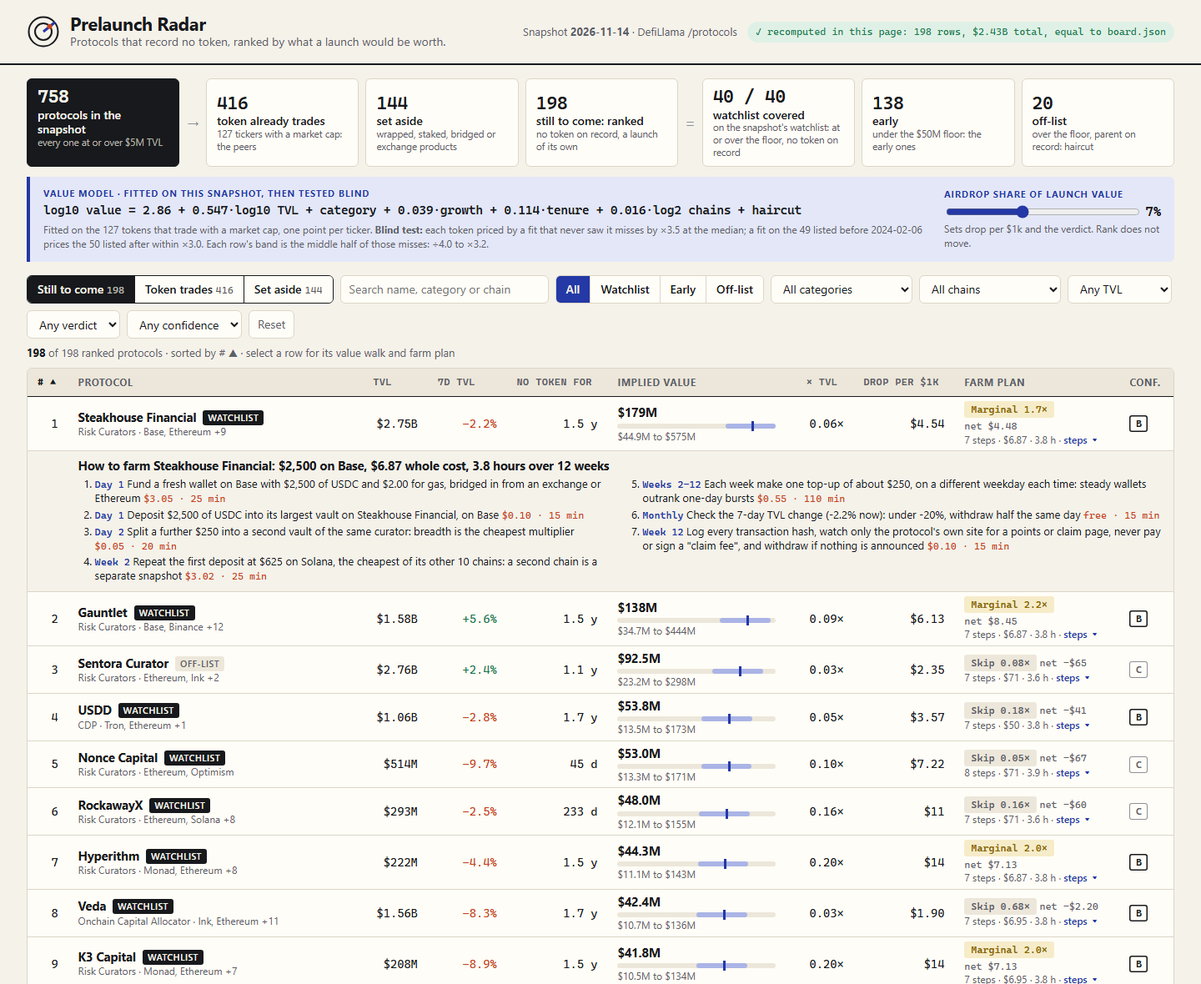
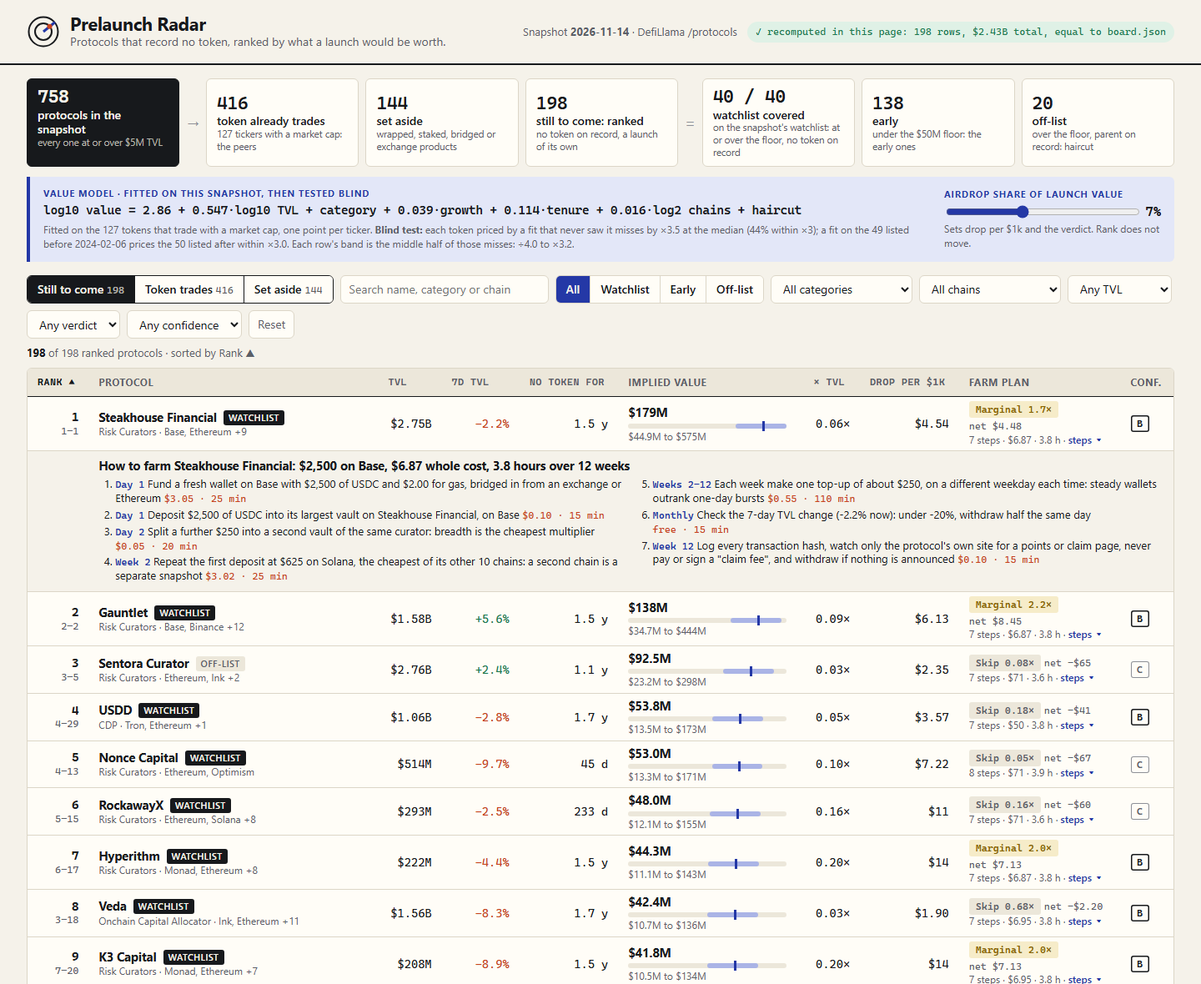
Bootstrap rank ranges, break-even launch value and net per hour; trims

diff --git a/dashboard/radar.js b/dashboard/radar.js
@@ -13,7 +13,7 @@
   var DEFAULTS = { view: 'ranked', cls: '', q: '', cat: '', chain: '', verdict: '', grade: '', min: '', sort: 'rank', dir: 'asc', share: '7', x: '', p: '' };
   var S = {}, shown = [];
 
-  // ---------------------------------------------------------------- small helpers
+  // ----small helpers
   function esc(s) { return String(s).replace(/[&<>"]/g, function (c) { return { '&': '&amp;', '<': '&lt;', '>': '&gt;', '"': '&quot;' }[c]; }); }
   function pct(v) { if (v != null && Math.abs(v) < 0.05) v = 0; return v == null ? '<span class="na">n/a</span>' : '<span class="' + (v >= 0 ? 'pos' : 'neg') + '">' + (v >= 0 ? '+' : '−') + Math.abs(v).toFixed(1) + '%</span>'; }
   function round$(e) { return '$' + [1, 10, 100][e % 3] + ['', 'K', 'M', 'B'][Math.floor(e / 3)]; }
@@ -28,7 +28,7 @@
     return { perK: r.perK * k, drop: pl.drop * k, low: pl.low * k, net: pl.drop * k - pl.cost, edge: edge, verdict: M.verdictOf(edge, pl.lowEdge * k) };
   }
 
-  // ---------------------------------------------------------------- the link is the state
+  // ----the link is the state
   function readHash() {
     S = {}; Object.keys(DEFAULTS).forEach(function (k) { S[k] = DEFAULTS[k]; });
     location.hash.replace(/^#/, '').split('&').forEach(function (kv) {
@@ -42,39 +42,37 @@
   }
   function set(patch) { Object.keys(patch).forEach(function (k) { S[k] = patch[k]; }); writeHash(); render(); }
 
-  // ---------------------------------------------------------------- columns: one definition sorts and draws
+  // ----columns: one definition sorts and draws
   var lo = Math.min.apply(null, rows.map(function (r) { return r.lo; })), hi = Math.max.apply(null, rows.map(function (r) { return r.hi; }));
   function scale(v) { return 100 * Math.log(v / lo) / Math.log(hi / lo); }
   var COLS = {
     ranked: [
-      { k: 'rank', t: '#', num: 1, v: function (r) { return r.rank; }, h: function (r) { return r.rank; } },
+      { k: 'rank', t: 'Rank', num: 1, tip: 'Under each rank: where it lands in 90% of 200 bootstrap refits (rankRanges).',v: function (r) { return r.rank; }, h: function (r) { return '<b>' + r.rank + '</b><small>' + r.rankLo + '–' + r.rankHi + '</small>'; } },
       { k: 'name', t: 'Protocol', v: function (r) { return r.name.toLowerCase(); }, h: function (r) { return '<b>' + esc(r.name) + '</b><span class="tag ' + r.cls + '">' + CLASS[r.cls] + '</span><small>' + esc(r.category) + ' · ' + chainsShort(r.chains, 2) + '</small>'; } },
       { k: 'tvl', t: 'TVL', num: 1, v: function (r) { return r.tvl; }, h: function (r) { return usd(r.tvl); } },
       { k: 'change7d', t: '7d TVL', num: 1, v: function (r) { return r.change7d; }, h: function (r) { return pct(r.change7d); } },
       { k: 'days', t: 'No token for', num: 1, v: function (r) { return r.days; }, h: function (r) { return tenure(r.days); } },
-      { k: 'value', t: 'Implied value', tip: 'The fitted model at this protocol\'s figures. The bar is the band the blind test earned, log scale.',v: function (r) { return r.value; }, h: function (r) { return '<b>' + usd(r.value) + '</b><span class="band"><i style="left:' + scale(r.lo).toFixed(1) + '%;width:' + (scale(r.hi) - scale(r.lo)).toFixed(1) + '%"></i><u style="left:' + scale(r.value).toFixed(1) + '%"></u></span><small>' + usd(r.lo) + ' to ' + usd(r.hi) + '</small>'; } },
+      { k: 'value', t: 'Implied value', v: function (r) { return r.value; }, h: function (r) { return '<b>' + usd(r.value) + '</b><span class="band"><i style="left:' + scale(r.lo).toFixed(1) + '%;width:' + (scale(r.hi) - scale(r.lo)).toFixed(1) + '%"></i><u style="left:' + scale(r.value).toFixed(1) + '%"></u></span><small>' + usd(r.lo) + ' to ' + usd(r.hi) + '</small>'; } },
       { k: 'multiple', t: '× TVL', num: 1, v: function (r) { return r.multiple; }, h: function (r) { return times(r.multiple); } },
-      { k: 'perK', t: 'Drop per $1k', num: 1, tip: 'Implied value × the airdrop share, split pro rata over TVL, for $1,000 deposited.', v: function (r) { return r.perK; }, h: function (r) { return usd(farm(r).perK); } },
+      { k: 'perK', t: 'Drop per $1k', num: 1, v: function (r) { return r.perK; }, h: function (r) { return usd(farm(r).perK); } },
       { k: 'edge', t: 'Farm plan', tip: 'Modelled drop ÷ the plan\'s whole cost. Farm: 3× or more and still covered at the band\'s low end. Marginal: covered. Skip: not.', v: function (r) { return r.plan.edge; }, h: function (r) { var f = farm(r); return '<span class="verdict ' + f.verdict + '">' + f.verdict + ' ' + times(f.edge) + '</span> <span class="net">net ' + usd(f.net) + '</span><small>' + r.plan.steps.length + ' steps · ' + usd(r.plan.cost) + ' · ' + r.plan.hours.toFixed(1) + ' h · <button type="button" class="more" data-x="' + esc(r.slug) + '">steps ▾</button></small>'; } },
       { k: 'conf', t: 'Conf.', v: function (r) { return r.conf; }, h: function (r) { return '<span class="grade ' + r.grade + '">' + r.grade + '</span>'; } }
     ],
     trading: [
       { k: 'name', t: 'Protocol', v: function (p) { return p.name.toLowerCase(); }, h: function (p) { return '<b>' + esc(p.name) + '</b><span class="tag live">' + esc(p.symbol || p.gecko_id) + ' trades</span><small>' + esc(p.category || 'Uncategorised') + ' · ' + chainsShort(p.chains, 2) + '</small>'; } },
       { k: 'tvl', t: 'TVL', num: 1, v: function (p) { return p.tvl_usd; }, h: function (p) { return usd(p.tvl_usd); } },
-      { k: 'change7d', t: '7d TVL', num: 1, v: function (p) { return p.change_7d; }, h: function (p) { return pct(p.change_7d); } },
       { k: 'mcap', t: 'Market cap', num: 1, v: function (p) { return p.mcap_usd; }, h: function (p) { return p.mcap_usd ? usd(p.mcap_usd) : '<span class="na">none on record</span>'; } },
       { k: 'multiple', t: 'Mcap ÷ TVL', num: 1, v: function (p) { return p.mcap_usd ? p.mcap_usd / p.tvl_usd : null; }, h: function (p) { return p.mcap_usd ? times(p.mcap_usd / p.tvl_usd) : ''; } },
-      { k: 'use', t: 'Role in the model (tokenFamilies)', v: function (p) { return fam(p) ? 0 : 1; }, h: function (p) { var f = fam(p); return f ? 'Peer: the ' + esc(f.key) + ' family, ' + f.members + ' product' + (f.members > 1 ? 's' : '') + ', ' + usd(f.tvl) + ' TVL' : '<span class="na">No market cap on record: not fitted</span>'; } }
+      { k: 'use', t: 'Role in the model (tokenFamilies)', v: function (p) { return fam(p) ? 0 : 1; }, h: function (p) { var f = fam(p); return f ? 'Peer ' + esc(f.key) + ': ' + f.members + ' product' + (f.members > 1 ? 's' : '') + ', ' + usd(f.tvl) + ' TVL' : '<span class="na">No market cap: not fitted</span>'; } }
     ],
     aside: [
       { k: 'name', t: 'Protocol', v: function (a) { return a.p.name.toLowerCase(); }, h: function (a) { return '<b>' + esc(a.p.name) + '</b><small>' + esc(a.p.category || 'Uncategorised') + ' · ' + chainsShort(a.p.chains, 2) + '</small>'; } },
       { k: 'tvl', t: 'TVL', num: 1, v: function (a) { return a.p.tvl_usd; }, h: function (a) { return usd(a.p.tvl_usd); } },
-      { k: 'change7d', t: '7d TVL', num: 1, v: function (a) { return a.p.change_7d; }, h: function (a) { return pct(a.p.change_7d); } },
       { k: 'why', t: 'Why it is set aside (productReason)', v: function (a) { return a.why; }, h: function (a) { return esc(a.why); } }
     ]
   };
 
-  // ---------------------------------------------------------------- filter and sort
+  // ----filter and sort
   function applyFilters() {
     var q = S.q.trim().toLowerCase(), min = Number(S.min) || 0;
     var list = S.view === 'ranked' ? rows : radar[S.view];
@@ -98,7 +96,7 @@
     });
   }
 
-  // ---------------------------------------------------------------- header, funnel, model bar
+  // ----header, funnel, model bar
   function renderFrame() {
     var c = D.board_check, sum = rows.reduce(function (s, r) { return s + r.value; }, 0), ok = c && c.rows === rows.length && c.value_sum_usd === sum && c.top === rows[0].slug;
     $('meta').innerHTML = '<span>Snapshot <b>' + esc(radar.as_of) + '</b> · DefiLlama /protocols</span><span class="chip ' + (ok ? 'ok' : 'bad') + '">' + (ok ? '✓ recomputed in this page: ' + rows.length + ' rows, ' + usd(sum) + ' total, equal to board.json' : 'This page\'s run differs from board.json') + '</span>';
@@ -113,11 +111,11 @@
       cell('ranked', 'offlist', n('offlist'), 'off-list', 'over the floor, parent on record: haircut');
     var f = radar.fit, sign = function (v) { return (v < 0 ? ' − ' : ' + ') + Math.abs(v).toFixed(3); };
     $('modelbar').innerHTML = '<div class="formula"><span class="lbl">Value model · fitted on this snapshot, then tested blind</span><code>log10 value = ' + f.a.toFixed(2) + ' + ' + f.b.toFixed(3) + '·log10 TVL + category' + sign(f.coef.g.post) + '·growth' + sign(f.coef.s.post) + '·tenure' + sign(f.coef.c.post) + '·log2 chains + haircut</code>' +
-      '<small>Fitted on the ' + f.n + ' tokens that trade with a market cap, one point per ticker. <b>Blind test:</b> each token priced by a fit that never saw it misses by ×' + T.miss.toFixed(1) + ' at the median; a fit on the ' + T.split.train + ' listed before ' + T.split.cut + ' prices the ' + T.split.test + ' listed after within ×' + T.split.miss.toFixed(1) + '. Each row\'s band is the middle half of those misses: ÷' + Math.pow(10, -T.q25).toFixed(1) + ' to ×' + Math.pow(10, T.q75).toFixed(1) + '.</small></div>' +
+      '<small>Fitted on the ' + f.n + ' tokens that trade with a market cap, one point per ticker. <b>Blind test:</b> each token priced by a fit that never saw it misses by ×' + T.miss.toFixed(1) + ' at the median (' + Math.round(T.within3 * 100) + '% within ×3); a fit on the ' + T.split.train + ' listed before ' + T.split.cut + ' prices the ' + T.split.test + ' listed after within ×' + T.split.miss.toFixed(1) + '. Each row\'s band is the middle half of those misses: ÷' + Math.pow(10, -T.q25).toFixed(1) + ' to ×' + Math.pow(10, T.q75).toFixed(1) + '.</small></div>' +
       '<label class="share"><span class="lbl">Airdrop share of launch value</span><input type="range" id="share" min="2" max="15" step="1" value="' + esc(S.share) + '"><output>' + esc(S.share) + '%</output><small>Sets drop per $1k and the verdict. Rank does not move.</small></label>';
   }
 
-  // ---------------------------------------------------------------- controls
+  // ----controls
   function options(list, cur, all) {
     return '<option value="">' + all + '</option>' + list.map(function (o) { return '<option value="' + esc(o[0]) + '"' + (o[0] === cur ? ' selected' : '') + '>' + esc(o[1]) + '</option>'; }).join('');
   }
@@ -140,7 +138,7 @@
       '<button type="button" class="reset" data-act="reset">Reset</button><p class="count" id="count" aria-live="polite"></p>';
   }
 
-  // ---------------------------------------------------------------- the board
+  // ----the board
   function renderBoard() {
     var cols = COLS[S.view];
     shown = applyFilters();
@@ -157,10 +155,10 @@
     $('empty').hidden = shown.length > 0;
     var total = (S.view === 'ranked' ? rows : radar[S.view]).length, col = cols.filter(function (c) { return c.k === S.sort; })[0] || cols[0];
     var active = [CLASS[S.cls], S.cat, S.chain, S.verdict && 'verdict ' + S.verdict, S.grade && 'confidence ' + S.grade, S.min && 'TVL ≥ ' + usd(Number(S.min)), S.q && '“' + esc(S.q) + '”'].filter(Boolean);
-    $('count').innerHTML = (active.length ? '<span class="filtered">Filtered: ' + active.map(esc).join(' + ') + '</span> ' : '') + '<b>' + shown.length + '</b> of ' + total + (S.view === 'ranked' ? ' ranked protocols' : S.view === 'trading' ? ' protocols whose token trades' : ' set-aside products') + ' · sorted by ' + col.t + (S.dir === 'asc' ? ' ▲' : ' ▼') + (S.view === 'ranked' ? ' · select a row for its value walk and farm plan' : '');
+    $('count').innerHTML = (active.length ? '<span class="filtered">Filtered: ' + active.map(esc).join(' + ') + '</span> ' : '') + '<b>' + shown.length + '</b> of ' + total + (S.view === 'ranked' ? ' ranked protocols' : S.view === 'trading' ? ' protocols whose token trades' : ' set-aside products') + ' · sorted by ' + col.t + (S.dir === 'asc' ? ' ▲' : ' ▼');
   }
 
-  // ---------------------------------------------------------------- the detail view
+  // ----the detail view
   /** The traded protocols nearest in TVL, same category first: the comparables a reader can check by hand. */
   function nearestComps(r, n) {
     var d = function (p) { return Math.abs(Math.log(p.tvl / r.tvl)); };
@@ -171,7 +169,7 @@
   function drawScatter(r) {
     var W = 560, H = 230, L = 46, B = 26, f = radar.fit, x0 = 6.6, x1 = 10.6, y0 = 4.5, y1 = 10.6, lg = function (v) { return Math.log(v) / Math.LN10; };
     var X = function (v) { return L + (lg(v) - x0) / (x1 - x0) * (W - L - 8); }, Y = function (v) { return H - B - (lg(v) - y0) / (y1 - y0) * (H - B - 8); };
-    var s = '<svg class="scatter" viewBox="0 0 ' + W + ' ' + H + '" role="img" aria-label="Market cap against TVL for the traded peers, with the fitted curve">';
+    var s = '<svg class="scatter" viewBox="0 0 ' + W + ' ' + H + '" role="img" aria-label="Market cap against TVL, traded peers">';
     [5, 6, 7, 8, 9, 10].forEach(function (e) { s += '<line class="grid" x1="' + L + '" x2="' + (W - 8) + '" y1="' + Y(Math.pow(10, e)) + '" y2="' + Y(Math.pow(10, e)) + '"/><text class="ax" x="' + (L - 6) + '" y="' + (Y(Math.pow(10, e)) + 4) + '" text-anchor="end">' + round$(e) + '</text>'; });
     [7, 8, 9, 10].forEach(function (e) { s += '<text class="ax" x="' + X(Math.pow(10, e)) + '" y="' + (H - 8) + '" text-anchor="middle">' + round$(e) + ' TVL</text>'; });
     s += '<text class="ax" x="' + (L + 6) + '" y="16">market cap</text>';
@@ -197,7 +195,7 @@
     ].forEach(function (s) { run *= s[2]; walk += step(s[0], s[1], s[2], run); });
     var comps = nearestComps(r, 5).map(function (p) { return '<tr><td><b>' + esc(p.name) + '</b> <span class="na">' + esc(p.key) + '</span></td><td>' + esc(p.category || '') + '</td><td class="num">' + usd(p.tvl) + '</td><td class="num">' + usd(p.mcap) + '</td><td class="num">' + times(p.mcap / p.tvl) + '</td></tr>'; }).join('');
     var at = shown.indexOf(r);
-    el.innerHTML = '<header><div><p class="eyebrow">Rank ' + r.rank + ' of ' + rows.length + ' · <span class="tag ' + r.cls + '">' + CLASS[r.cls] + '</span> ' + CLASS_NOTE[r.cls] + '</p><h2 id="d-name">' + esc(r.name) + '</h2><p class="sub">' + esc(r.category) + ' on ' + chainsShort(r.chains, 6) + ' · TVL ' + usd(r.tvl) + ' · records no token</p></div>' +
+    el.innerHTML = '<header><div><p class="eyebrow">Rank ' + r.rank + ' of ' + rows.length + ' (' + r.rankLo + ' to ' + r.rankHi + ' in 90% of 200 bootstrap refits)· <span class="tag ' + r.cls + '">' + CLASS[r.cls] + '</span> ' + CLASS_NOTE[r.cls] + '</p><h2 id="d-name">' + esc(r.name) + '</h2><p class="sub">' + esc(r.category) + ' on ' + chainsShort(r.chains, 6) + ' · TVL ' + usd(r.tvl) + ' · records no token</p></div>' +
       '<nav><button type="button" data-step="-1"' + (at > 0 ? '' : ' disabled') + '>← Prev</button><button type="button" data-step="1"' + (at >= 0 && at < shown.length - 1 ? '' : ' disabled') + '>Next →</button><button type="button" class="close" data-act="close">Close ✕</button></nav></header>' +
       '<div class="cols"><section><h3>Implied value</h3><div class="hero"><b>' + usd(r.value) + '</b><span>blind-test band ' + usd(r.lo) + ' to ' + usd(r.hi) + ' · ' + times(r.multiple) + ' TVL · confidence <span class="grade ' + r.grade + '">' + r.grade + '</span> ' + r.conf + '/100</span></div>' +
       '<table class="walk"><thead><tr><th>Step</th><th>From the snapshot</th><th class="num">Factor</th><th></th><th class="num">Running</th></tr></thead><tbody>' + walk + '</tbody></table>' +
@@ -205,7 +203,8 @@
       '<h3>Nearest comparables that trade</h3><table class="comps"><thead><tr><th>Protocol</th><th>Category</th><th class="num">TVL</th><th class="num">Market cap</th><th class="num">Mcap ÷ TVL</th></tr></thead><tbody>' + comps + '</tbody></table></section>' +
       '<section><h3>Farm plan <span class="verdict ' + f.verdict + '">' + f.verdict + ' ' + times(f.edge) + '</span></h3>' +
       '<div class="tiles"><div><b>' + usd(pl.size) + '</b><span>capital, on ' + esc(pl.chain) + '</span></div><div><b>' + usd(pl.cost) + '</b><span>whole cost: ' + usd(pl.gas) + ' gas' + (pl.carry ? ' + ' + usd(pl.carry) + ' idle cash' : ', deposit keeps earning') + '</span></div><div><b>' + pl.hours.toFixed(1) + ' h</b><span>over ' + pl.weeks + ' weeks</span></div><div><b>' + usd(f.drop) + '</b><span>modelled drop at ' + esc(S.share) + '% share; ' + usd(f.low) + ' at the band\'s low end</span></div><div class="' + (f.net >= 0 ? 'gain' : 'loss') + '"><b>' + usd(f.net) + '</b><span>net of cost</span></div></div>' +
-      '<p class="why">' + (f.verdict === 'Farm' ? 'The modelled drop is ' + times(f.edge) + ' the plan\'s cost and still covers it at the band\'s low end: worth the ' + pl.hours.toFixed(1) + ' hours.' : f.verdict === 'Marginal' ? 'The modelled drop covers the cost ' + times(f.edge) + ': farm it only if the launch is likely or you would use it anyway.' : 'The modelled drop does not cover the cost (' + times(f.edge) + '): its TVL dilutes a ' + usd(pl.size) + ' position. Skip unless you already use it.') + '</p>' +
+      '<p class="why">' + (f.verdict === 'Farm' ? 'The modelled drop is ' + times(f.edge) + ' the cost and still covers it at the band\'s low end: worth the ' + pl.hours.toFixed(1) + ' hours.' : f.verdict === 'Marginal' ? 'The modelled drop covers the cost ' + times(f.edge) + ': farm it only if you would use it anyway.' : 'The modelled drop does not cover the cost (' + times(f.edge) + '): its TVL dilutes a ' + usd(pl.size) + ' position. Skip.') + '</p>' +
+      '<p class="be">Break-even: the plan pays for itself if the launch is worth ' + usd(pl.breakEven * M.AIRDROP_SHARE * 100 / Number(S.share)) + ' or more (' + (100 / f.edge).toFixed(0) + '% of the modelled value). Net per hour of your time: ' + usd(f.net / pl.hours) + '.</p>' +
       '<ol class="steps">' + pl.steps.map(function (s) { return '<li><p><b>' + esc(s.when) + '</b> ' + esc(s.what) + '.</p><span class="cost">' + (s.cost > 0 ? usd(s.cost) : 'free') + '</span><span class="time">' + (s.min >= 60 ? (s.min / 60).toFixed(0) + ' h' : s.min + ' min') + '</span><small>' + esc(s.note) + '</small></li>'; }).join('') + '</ol>' +
       '<h3>The same plan at three sizes</h3><table class="comps"><thead><tr><th class="num">Capital</th><th class="num">Whole cost</th><th class="num">Modelled drop</th><th class="num">Net</th><th>Verdict</th></tr></thead><tbody>' +
       [pl.size / 2, pl.size, pl.size * 5].map(function (c) { var q = M.farmPlan(r, c), g = farm(r, q); return '<tr><td class="num">' + (c === pl.size ? 'the plan: ' : '') + usd(c) + '</td><td class="num">' + usd(q.cost) + '</td><td class="num">' + usd(g.drop) + '</td><td class="num">' + usd(g.net) + '</td><td><span class="verdict ' + g.verdict + '">' + g.verdict + ' ' + times(g.edge) + '</span></td></tr>'; }).join('') + '</tbody></table>' +
@@ -213,7 +212,7 @@
     el.querySelector('.close').focus();
   }
 
-  // ---------------------------------------------------------------- wiring
+  // ----wiring
   function render() { renderFrame(); renderControls(); renderBoard(); renderDetail(); }
   document.addEventListener('click', function (e) {
     var t = e.target.closest('[data-x],[data-sort],[data-view],[data-cls],[data-act],[data-step],tr[data-slug]');

diff --git a/dashboard/model.js b/dashboard/model.js
@@ -2,11 +2,11 @@
  * ONE file, run twice: main.ts runs it on the sealed snapshot to write board.json, and the page runs it
  * again in the browser on the same rows (snapshot-data.js). Nothing here names a protocol: every figure
  * comes from the snapshot's ten fields. Reading order: splitUniverse -> tokenFamilies -> fitOn ->
- * backtest -> scoreProtocol -> farmPlan -> buildRadar. */
+ * backtest -> rankRanges -> scoreProtocol -> farmPlan -> buildRadar. */
 (function (root) {
   'use strict';
 
-  // ---------------------------------------------------------------- 1. who still has a token to come
+  // ----1. who still has a token to come
   const PRODUCT_CATEGORIES = ['Bridge', 'Canonical Bridge', 'Liquid Staking', 'Liquid Restaking', 'Restaked BTC', 'CEX'];
   const VERSION_MARK = /\s(V\d+(\.\d+)?|v\d+(\.\d+)?|\d+\.\d+)$/;
   const PRODUCT_WORD = /\b(wrapped|staked|staking)\b/i;
@@ -42,7 +42,7 @@
     return { watch, trading, aside, candidates, kin };
   }
 
-  // ---------------------------------------------------------------- 2. the peers: one point per token
+  // ----2. the peers: one point per token
   const log10 = (x) => Math.log(x) / Math.LN10;
   const tanh = (v) => { const e = Math.exp(2 * v); return (e - 1) / (e + 1); };
   const days = (from, to) => Math.round((Date.parse(to) - Date.parse(from)) / 864e5);
@@ -73,7 +73,7 @@
       .map((f) => Object.assign(f, { x: features(f.tvl, f.change, f.listed, f.chains, asOf), y: log10(f.mcap) }));
   }
 
-  // ---------------------------------------------------------------- 3. the fit
+  // ----3. the fit
   /** What a designer would assume before seeing the peers, in log10 units per unit of the feature, with its width:
    *  growth +25% at the top, seasoning x1.43 from new to old, +4% a doubling of chains. The peers then move it. */
   const PRIORS = { g: [0.097, 0.1], s: [0.155, 0.15], c: [0.017, 0.02] };
@@ -120,7 +120,20 @@
     };
   }
 
-  // ---------------------------------------------------------------- 4. the implied value of one protocol
+  /** How firm each rank is: 200 refits on peers drawn again with replacement (seeded, so every run agrees), and the
+   *  5th to 95th percentile of the rank each row lands on. A wide range says the order there is not to be trusted. */
+  function rankRanges(peers, rows) {
+    let seed = 20261114;
+    const draw = () => peers[Math.floor((seed = (seed * 1664525 + 1013904223) >>> 0) / 4294967296 * peers.length)];
+    const seen = rows.map(() => []);
+    for (let k = 0; k < 200; k++) {
+      const fit = fitOn(peers.map(draw)), v = rows.map((r) => fit.predict(r.x, r.peerCategory) + log10(r.haircut));
+      v.map((_, i) => i).sort((i, j) => v[j] - v[i]).forEach((i, at) => seen[i].push(at + 1));
+    }
+    rows.forEach((r, i) => { const s = seen[i].sort((a, b) => a - b); r.rankLo = s[10]; r.rankHi = s[189]; });
+  }
+
+  // ----4. the implied value of one protocol
   const AIRDROP_SHARE = 0.07;   // share of launch value assumed to reach farmers; the page lets the reader move it
   const KIN_HAIRCUT = 0.4;      // shares a name with a protocol whose token trades: the token may already exist
   const PARENT_HAIRCUT = 0.55;  // at or over the floor yet off the watchlist: only the parent rule can explain it
@@ -146,13 +159,13 @@
     return {
       slug: p.slug, name: p.name, category: p.category || 'Uncategorised', chains: p.chains, tvl: p.tvl_usd, change7d: p.change_7d,
       listed: p.listed_at, days: age, cls: onWatch ? 'watch' : overFloor ? 'offlist' : 'early',
-      curve: Math.round(curve), catN: cat.n, catMult, growth, tenure, breadth, haircut,
+      curve: Math.round(curve), catN: cat.n, catMult, growth, tenure, breadth, haircut, x, peerCategory: p.category,
       value, lo: Math.round(value * 10 ** test.q25), hi: Math.round(value * 10 ** test.q75), multiple: value / p.tvl_usd,
       perK: value * AIRDROP_SHARE * 1000 / p.tvl_usd, conf, grade: conf >= 75 ? 'A' : conf >= 58 ? 'B' : 'C', flags
     };
   }
 
-  // ---------------------------------------------------------------- 5. the farm plan
+  // ----5. the farm plan
   /** Typical cost of one transaction in USD, by chain. An assumption table about chains, not protocols. */
   const GAS_USD = { Ethereum: 4, Bitcoin: 2.5, Tron: 1.5, Binance: 0.15, Avalanche: 0.08, Solana: 0.01, Polygon: 0.02 };
   const gasOf = (chain) => GAS_USD[chain] != null ? GAS_USD[chain] : 0.05;
@@ -210,17 +223,19 @@
     return {
       archetype: A.key, chain, size, steps, gas: gasTotal, carry, cost, hours: minutes / 60, weeks: WEEKS,
       drop, low, net: drop - cost, edge: drop / cost, lowEdge: low / cost, verdict: verdictOf(drop / cost, low / cost),
+      breakEven: r.value * cost / drop, // the launch value at which the drop only just pays for the plan
       text: steps.map((x) => x.when + ': ' + x.what + '. Cost: ' + (x.cost > 0 ? 'about ' + usd(x.cost) + ' (' + x.note + ')' : 'nothing (' + x.note + ')') + '. Time: ' + (x.min >= 60 ? (x.min / 60).toFixed(1) + ' hours in all' : x.min + ' minutes') + '.')
     };
   }
 
-  // ---------------------------------------------------------------- 6. the whole radar
+  // ----6. the whole radar
   /** Rank every candidate by implied value; rank 1 is the largest. Ties break on TVL, then slug. */
   function buildRadar(snapshot) {
     const uni = splitUniverse(snapshot), peers = tokenFamilies(uni.trading, snapshot.as_of), fit = fitOn(peers), test = backtest(peers);
     const rows = uni.candidates.map((p) => scoreProtocol(p, fit, test, uni, snapshot));
     rows.sort((x, y) => y.value - x.value || y.tvl - x.tvl || (x.slug < y.slug ? -1 : 1));
     rows.forEach((r, i) => { r.rank = i + 1; r.plan = farmPlan(r); });
+    rankRanges(peers, rows);
     return { fit, test, rows, trading: uni.trading, aside: uni.aside, as_of: snapshot.as_of, source: snapshot.source, floor: snapshot.floor_usd, total: snapshot.protocols.length, watchlist: snapshot.watchlist };
   }
   /** board.json's rows, as the gate reads them. */
@@ -228,6 +243,7 @@
     const cents = (v) => Math.round(v * 100) / 100;
     return radar.rows.map((r) => ({
       slug: r.slug, name: r.name, rank: r.rank, implied_value_usd: r.value, farm_steps: r.plan.text, tvl_usd: r.tvl, class: r.cls, confidence: r.grade,
+      rank_range_90: [r.rankLo, r.rankHi], break_even_value_usd: Math.round(r.plan.breakEven),
       value_low_usd: r.lo, value_high_usd: r.hi, est_drop_per_1k_usd: cents(r.perK), plan_capital_usd: r.plan.size, plan_cost_usd: cents(r.plan.cost),
       plan_net_usd: cents(r.plan.net), plan_hours: Math.round(r.plan.hours * 10) / 10, verdict: r.plan.verdict
     }));

diff --git a/dashboard/index.html b/dashboard/index.html
@@ -1,14 +1,15 @@
 <!doctype html>
 <!--
   Prelaunch Radar. A map of this source for whoever reads it:
-  - model.js          the value model and the farm planner. main.ts runs it on the sealed snapshot to write
-                      board.json; this page runs the same file again in the browser. Functions: splitUniverse
-                      (trading / set aside / still to come), fitPeers (the peer curve), scoreProtocol (implied
-                      value, band, confidence), farmPlan (steps, each with a cost and a time), buildRadar.
-  - radar.js          the page: renderBoard (sort, search, filters), renderDetail (value walk, peer chart,
-                      comparables, farm plan), readHash / writeHash (every view is a link).
-  - snapshot-data.js  the snapshot's ten fields for all protocols, written by main.ts. No value is stored:
-                      the page derives every figure, then checks its total against board.json (the header chip).
+  - model.js          the value model, its test and the farm planner. main.ts runs it on the sealed snapshot to
+                      write board.json; this page runs the same file again in the browser. splitUniverse (trading
+                      / set aside / still to come), tokenFamilies (one peer per ticker), fitOn (size curve,
+                      category, growth, tenure, breadth), backtest (leave-one-out and a time split), rankRanges
+                      (200 bootstrap refits), scoreProtocol, farmPlan (dated steps with cost and time, netted).
+  - radar.js          the page: renderBoard (sort, search, filters, steps in the row), renderDetail (value walk,
+                      peer chart, comparables, farm plan), readHash / writeHash (every view is a link).
+  - snapshot-data.js  the snapshot's own rows, written by main.ts. No value is stored: the page derives every
+                      figure, then checks its total against board.json (the header chip).
   No protocol is named anywhere in the code. No network: no remote script, font or image.
 -->
 <html lang="en">
@@ -31,7 +32,7 @@
   <section class="modelbar" id="modelbar" aria-label="The value model"></section>
   <section class="controls" id="controls" aria-label="Filters"></section>
   <section class="tablewrap"><table id="board"><thead></thead><tbody></tbody></table><p class="empty" id="empty" hidden>No protocol matches these filters. <button type="button" data-act="reset">Clear filters</button></p></section>
-  <footer class="foot">Implied value is this model's estimate from one DefiLlama snapshot, not a price and not advice. A protocol here <em>records</em> no token; it may still have one its record does not carry. Nothing predicts whether or when a token is issued.</footer>
+  <footer class="foot">Implied value is this model's estimate from one DefiLlama snapshot, not a price and not advice. A protocol here <em>records</em> no token; it may still have one. Nothing predicts whether or when a token is issued.</footer>
 </main>
 <div class="scrim" id="scrim" hidden></div>
 <aside class="detail" id="detail" role="dialog" aria-modal="true" aria-labelledby="d-name" hidden></aside>

diff --git a/dashboard/radar.css b/dashboard/radar.css
@@ -1,5 +1,5 @@
-/* Prelaunch Radar. Paper, ink and two signals: ultramarine for what the model says, vermilion for what
-   to watch. System fonts only; a 4px spacing step; figures set in tabular monospace. */
+/* Paper, ink and two signals: ultramarine for what the model says, vermilion for what to watch.
+   System fonts only, a 4px spacing step, figures in tabular monospace. */
 :root {
   --paper: #f5f2ea; --card: #fffdf7; --ink: #17191c; --soft: #5b6068; --faint: #8d9097; --rule: #dcd6c7; --wash: #ece7da;
   --blue: #2438a6; --blue-wash: #e3e7f8; --red: #c8421f; --red-wash: #f9e4dc; --green: #1d7a4f; --green-wash: #dff1e6; --gold: #8a6500; --gold-wash: #f6ecc9;
@@ -157,6 +157,7 @@ h3 .verdict { margin-left: 8px; font-size: 13px; letter-spacing: 0; text-transfo
 .tiles b { display: block; font: 600 20px/1.2 var(--mono); }
 .tiles span { font-size: 12px; color: var(--soft); line-height: 1.3; display: block; }
 .why { margin-top: 8px; font-weight: 600; }
+.be { margin-top: 4px; color: var(--soft); }
 .steps { list-style: none; counter-reset: s; margin: 12px 0 0; padding: 0; }
 .steps li { counter-increment: s; position: relative; display: grid; grid-template-columns: 1fr 64px 60px; column-gap: 8px; padding: 8px 0 8px 36px; border-top: 1px solid var(--rule); }
 .steps li::before { content: counter(s); position: absolute; left: 0; top: 8px; width: 24px; height: 24px; border-radius: 50%; background: var(--ink); color: var(--paper); font: 600 12px/24px var(--mono); text-align: center; }
